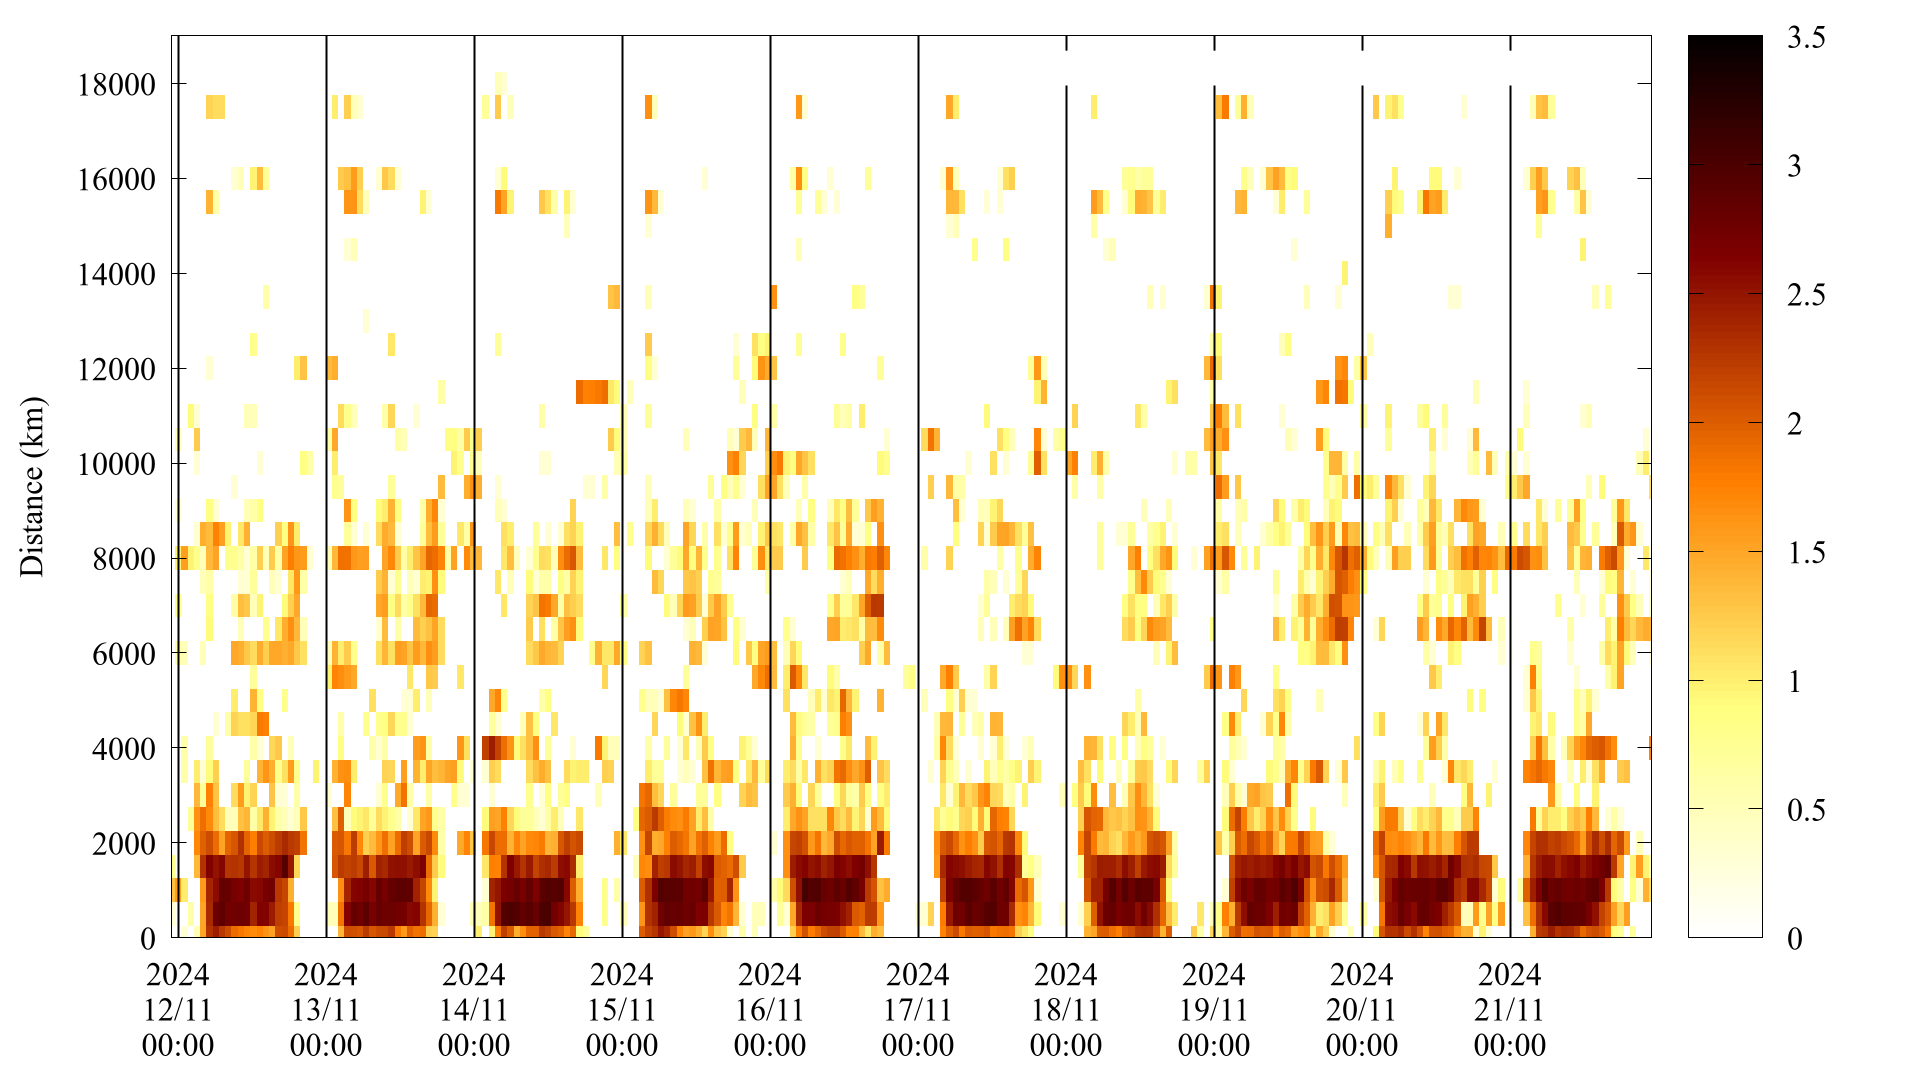
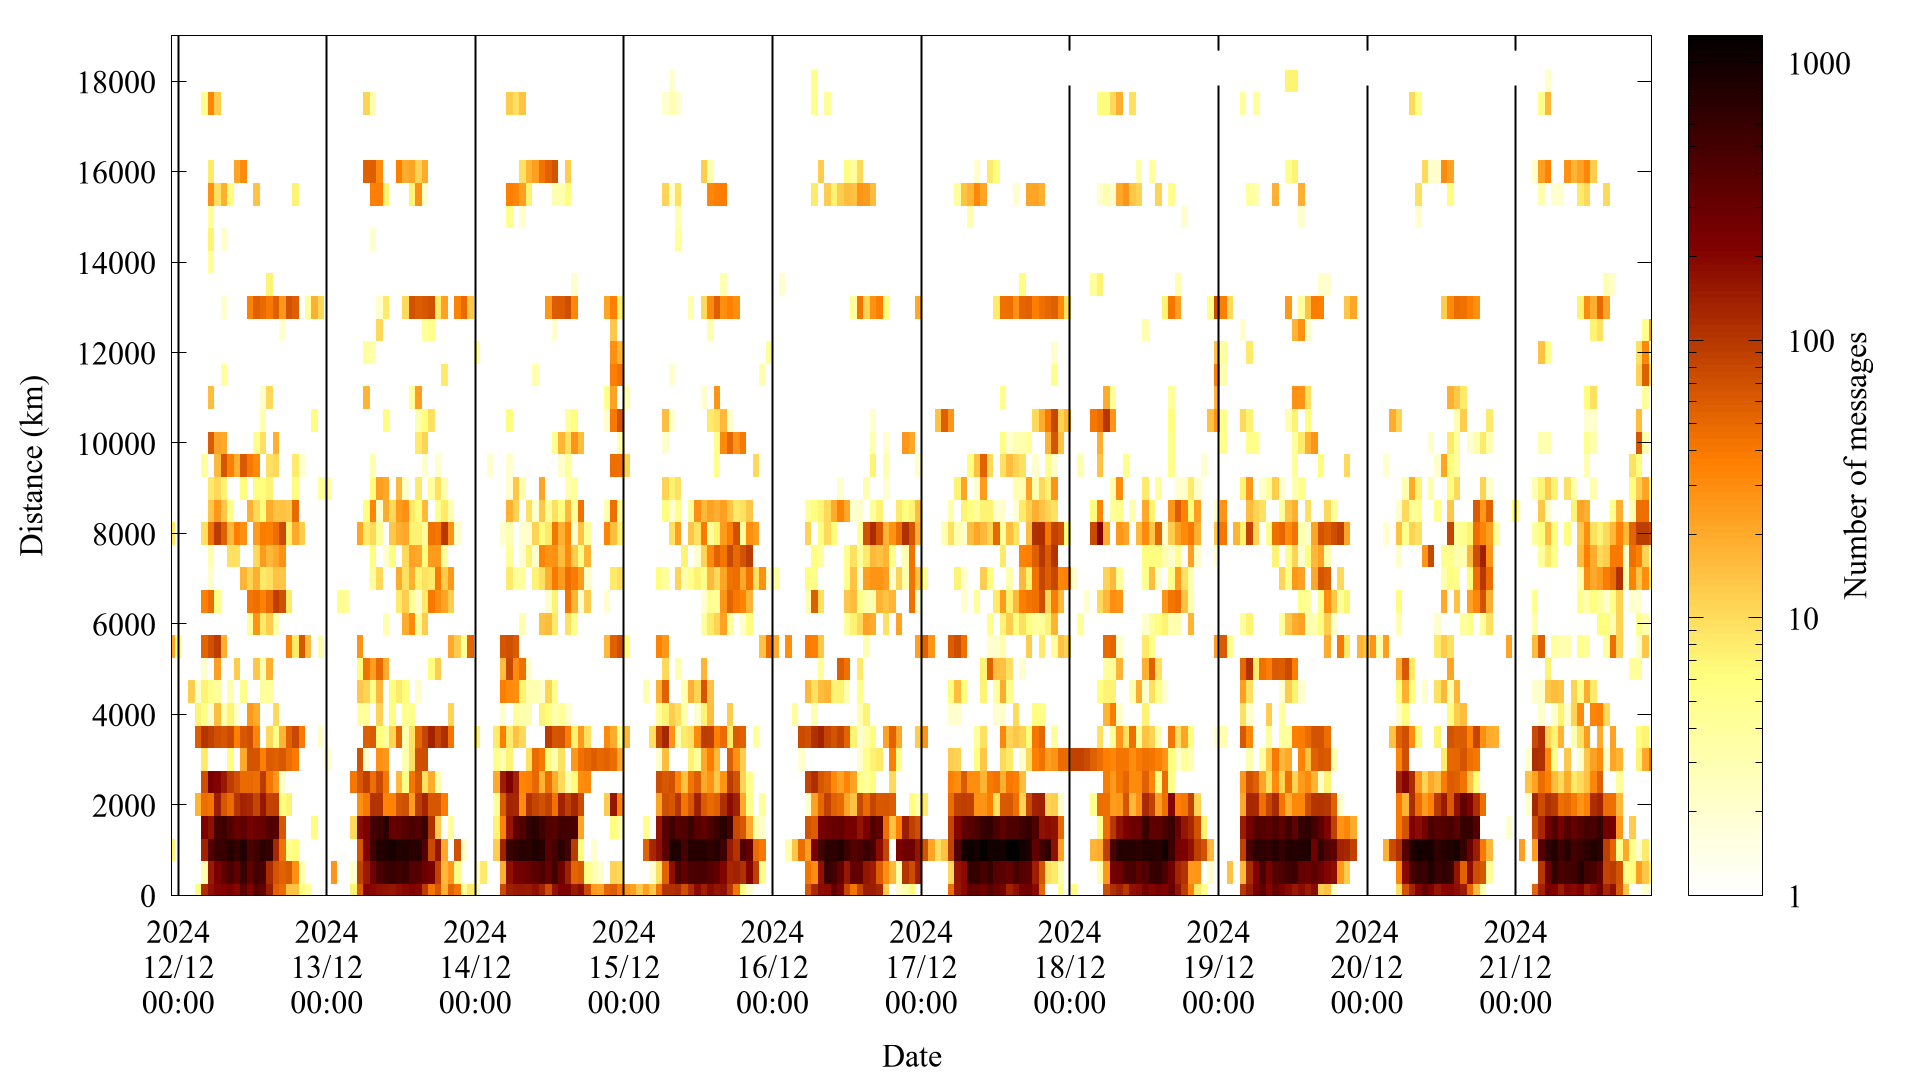
Final modifications, which were not commited before, for some unknown reason.

diff --git a/vakulya-signals2025-ft8.tex b/vakulya-signals2025-ft8.tex
@@ -38,16 +38,16 @@
 \TitleCitation{Analyzing shortwave propagation with a remote accessible software defined ham radio system}
 
 % Author Orchid ID: enter ID or remove command
-\newcommand{\orcidauthorA}{0000-0000-0000-000X} % Add \orcidA{} behind the author's name
-%\newcommand{\orcidauthorB}{0000-0000-0000-000X} % Add \orcidB{} behind the author's name
+\newcommand{\orcidauthorA}{0000-0002-4289-5469} % Add \orcidA{} behind the author's name
+\newcommand{\orcidauthorB}{0009-0009-3650-2428} % Add \orcidB{} behind the author's name
 
 % Authors, for the paper (add full first names)
-\Author{Gergely Vakulya $^{1}$, Helga Albert-Huszár $^{2}$}
+\Author{Gergely Vakulya $^{1, \orcidA}$, Helga Anna Albert-Huszár $^{2, \orcidB}$}
 
 %\longauthorlist{yes}
 
 % MDPI internal command: Authors, for metadata in PDF
-\AuthorNames{Firstname Lastname, Firstname Lastname and Firstname Lastname}
+\AuthorNames{Gergely Vakulya, Helga Anna Albert-Huszár}
 
 % MDPI internal command: Authors, for citation in the left column, only choose below one of them according to the journal style
 % If this is a Chicago style journal 
@@ -60,23 +60,14 @@
 
 % If this is a ACS style journal (Except for the above Chicago and APA journals, all others are in the ACS format): 
 % Lastname, F.; Lastname, F.; Lastname, F.
-\isAPAStyle{%
-       \AuthorCitation{Lastname, F., Lastname, F., \& Lastname, F.}
-         }{%
-        \isChicagoStyle{%
-        \AuthorCitation{Lastname, Firstname, Firstname Lastname, and Firstname Lastname.}
-        }{
-        \AuthorCitation{Lastname, F.; Lastname, F.; Lastname, F.}
-        }
-}
 
 % Affiliations / Addresses (Add [1] after \address if there is only one affiliation.)
 \address{%
-$^{1}$ \quad Affiliation 1; e-mail@e-mail.com\\
-$^{2}$ \quad Affiliation 2; e-mail@e-mail.com}
+$^{1}$ \quad Obuda University; vakulya.gergely@amk.uni-obuda.hu\\
+$^{2}$ \quad helgaanna96@gmail.com}
 
 % Contact information of the corresponding author
-\corres{Correspondence: e-mail@e-mail.com; Tel.: (optional; include country code; if there are multiple corresponding authors, add author initials) +xx-xxxx-xxx-xxxx (F.L.)}
+\corres{Correspondence: vakulya.gergely@amk.uni-obuda.hu}
 
 % Current address and/or shared authorship
 %\firstnote{Current address: Affiliation.}  
@@ -521,6 +512,24 @@ beyond 9000 km also exhibits similar patterns.
 
 \section{Summary}
 
+This study demonstrated the design and implementation of an automated, remotely
+accessible system for radio propagation data collection using the widely
+used FT8 protocol. The architecture and key components of the system were
+presented, highlighting its cost-efficiency, ease of deployment, and
+suitability for long-term, unattended operation.
+
+Over the course of one year, the system recorded more than 30 million FT8
+messages from stations across all continents, including Antarctica, numerous
+islands, and vessels at sea. This extensive dataset enabled a comprehensive
+analysis of HF propagation patterns on the 20 m amateur radio band. The results
+were consistent with established seasonal propagation behavior while providing
+a higher level of temporal and spatial detail than typically achievable with
+manual or less frequent observations.
+
+The findings confirm that large-scale, automated FT8 reception offers a
+powerful and accessible method for ionospheric and propagation research,
+supporting both the validation of existing models and the discovery of
+finer-scale phenomena.
 
 \bibliography{references}
 
